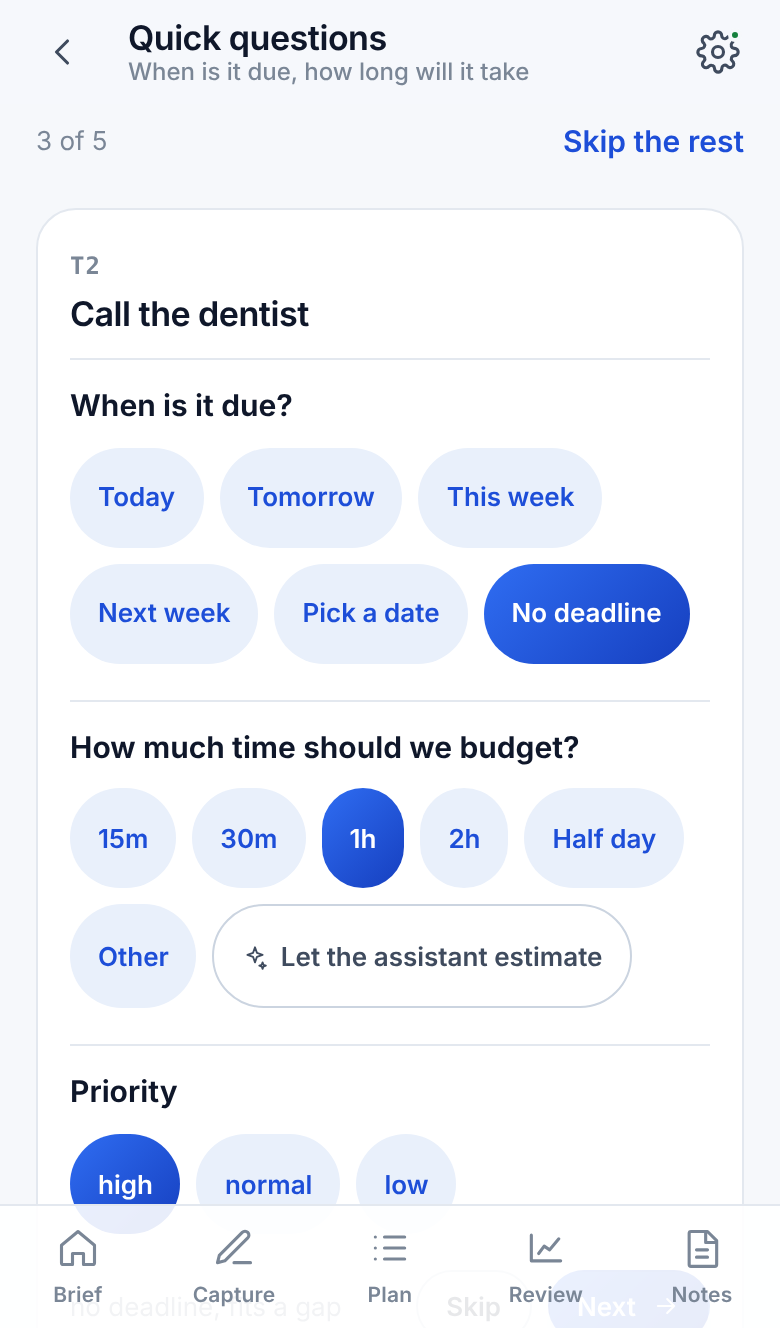
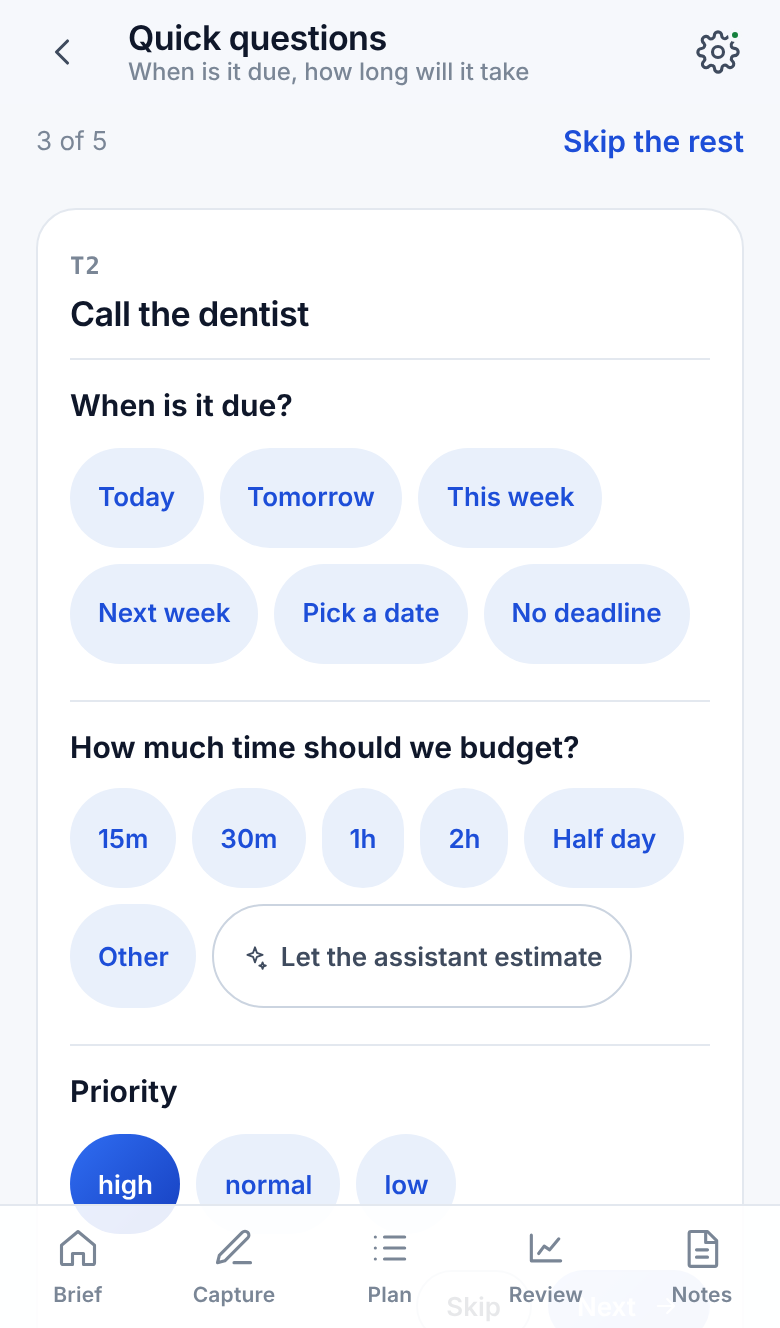
Triage starts unanswered: no preselected deadline or budget
Both questions begin blank and Next stays disabled until the executive
chooses (or keeps what the note said). Skip remains explicit.

Claude-Session: https://claude.ai/code/session_011vvXgAmNZx5X2tdoRYntuD

Changed region(s): [[0.6154, 0.4014, 0.8923, 0.5248], [0.4, 0.5866, 0.5231, 0.6792]]

diff --git a/apps/web/src/screens/Triage.tsx b/apps/web/src/screens/Triage.tsx
@@ -78,14 +78,15 @@ function TriageCard({ todo, state, onDone }: { todo: Todo; state: FreenotesState
   const today = useMemo(() => LocalDate.fromDate(new Date()), []);
   const hasDeadline = Boolean(todo.deadline);
   const hasBudget = todo.estimateSource === "explicit";
-  const [due, setDue] = useState<DueChoice>(hasDeadline ? "keep" : "none");
+  const [due, setDue] = useState<DueChoice | undefined>(hasDeadline ? "keep" : undefined);
   const [dueDate, setDueDate] = useState("");
-  const [time, setTime] = useState<TimeChoice>(hasBudget ? "keep" : 60);
+  const [time, setTime] = useState<TimeChoice | undefined>(hasBudget ? "keep" : undefined);
   const [custom, setCustom] = useState("");
   const [priority, setPriority] = useState<Priority>(todo.priority);
 
   const deadlineFor = (): Deadline | null | undefined => {
     switch (due) {
+      case undefined:
       case "keep":
         return undefined;
       case "none":
@@ -108,9 +109,10 @@ function TriageCard({ todo, state, onDone }: { todo: Todo; state: FreenotesState
     const parsed = /^(\d+(?:\.\d+)?)\s*(h|hr|hrs|hours?)$/i.exec(t) ? Math.round(Number(/^(\d+(?:\.\d+)?)/.exec(t)![1]) * 60) : /^(\d+)\s*(m|min|mins|minutes?)?$/i.exec(t) ? Number(/^(\d+)/.exec(t)![1]) : undefined;
     return parsed && parsed > 0 ? parsed : undefined;
   })();
-  const estimateFor = (): number | "assistant" | undefined => (time === "keep" ? undefined : time === "custom" ? customMinutes : time);
-  const ready = (due !== "date" || Boolean(dueDate)) && (time !== "custom" || customMinutes !== undefined);
-  const preview = due === "keep" ? (todo.deadline ? `due ${formatDeadline(todo)}` : "") : due === "none" ? "no deadline, fits a gap" : (() => {
+  const estimateFor = (): number | "assistant" | undefined => (time === undefined || time === "keep" ? undefined : time === "custom" ? customMinutes : time);
+  // Both questions need an answer (or an explicit "keep what I wrote"); nothing is chosen for the executive.
+  const ready = due !== undefined && time !== undefined && (due !== "date" || Boolean(dueDate)) && (time !== "custom" || customMinutes !== undefined);
+  const preview = due === undefined ? "" : due === "keep" ? (todo.deadline ? `due ${formatDeadline(todo)}` : "") : due === "none" ? "no deadline, fits a gap" : (() => {
     const d = deadlineFor();
     return d ? `due ${formatDeadline({ ...todo, deadline: d })}` : "";
   })();
@@ -135,7 +137,7 @@ function TriageCard({ todo, state, onDone }: { todo: Todo; state: FreenotesState
           <p className="muted small">
             From your note: {formatDeadline(todo)}.{" "}
             {due === "keep" ? (
-              <button className="link small" onClick={() => setDue("none")}>
+              <button className="link small" onClick={() => setDue(undefined)}>
                 Change
               </button>
             ) : (
@@ -172,7 +174,7 @@ function TriageCard({ todo, state, onDone }: { todo: Todo; state: FreenotesState
           <p className="muted small">
             From your note: {formatMinutes(todo.estimatedMinutes)}.{" "}
             {time === "keep" ? (
-              <button className="link small" onClick={() => setTime(60)}>
+              <button className="link small" onClick={() => setTime(undefined)}>
                 Change
               </button>
             ) : (
